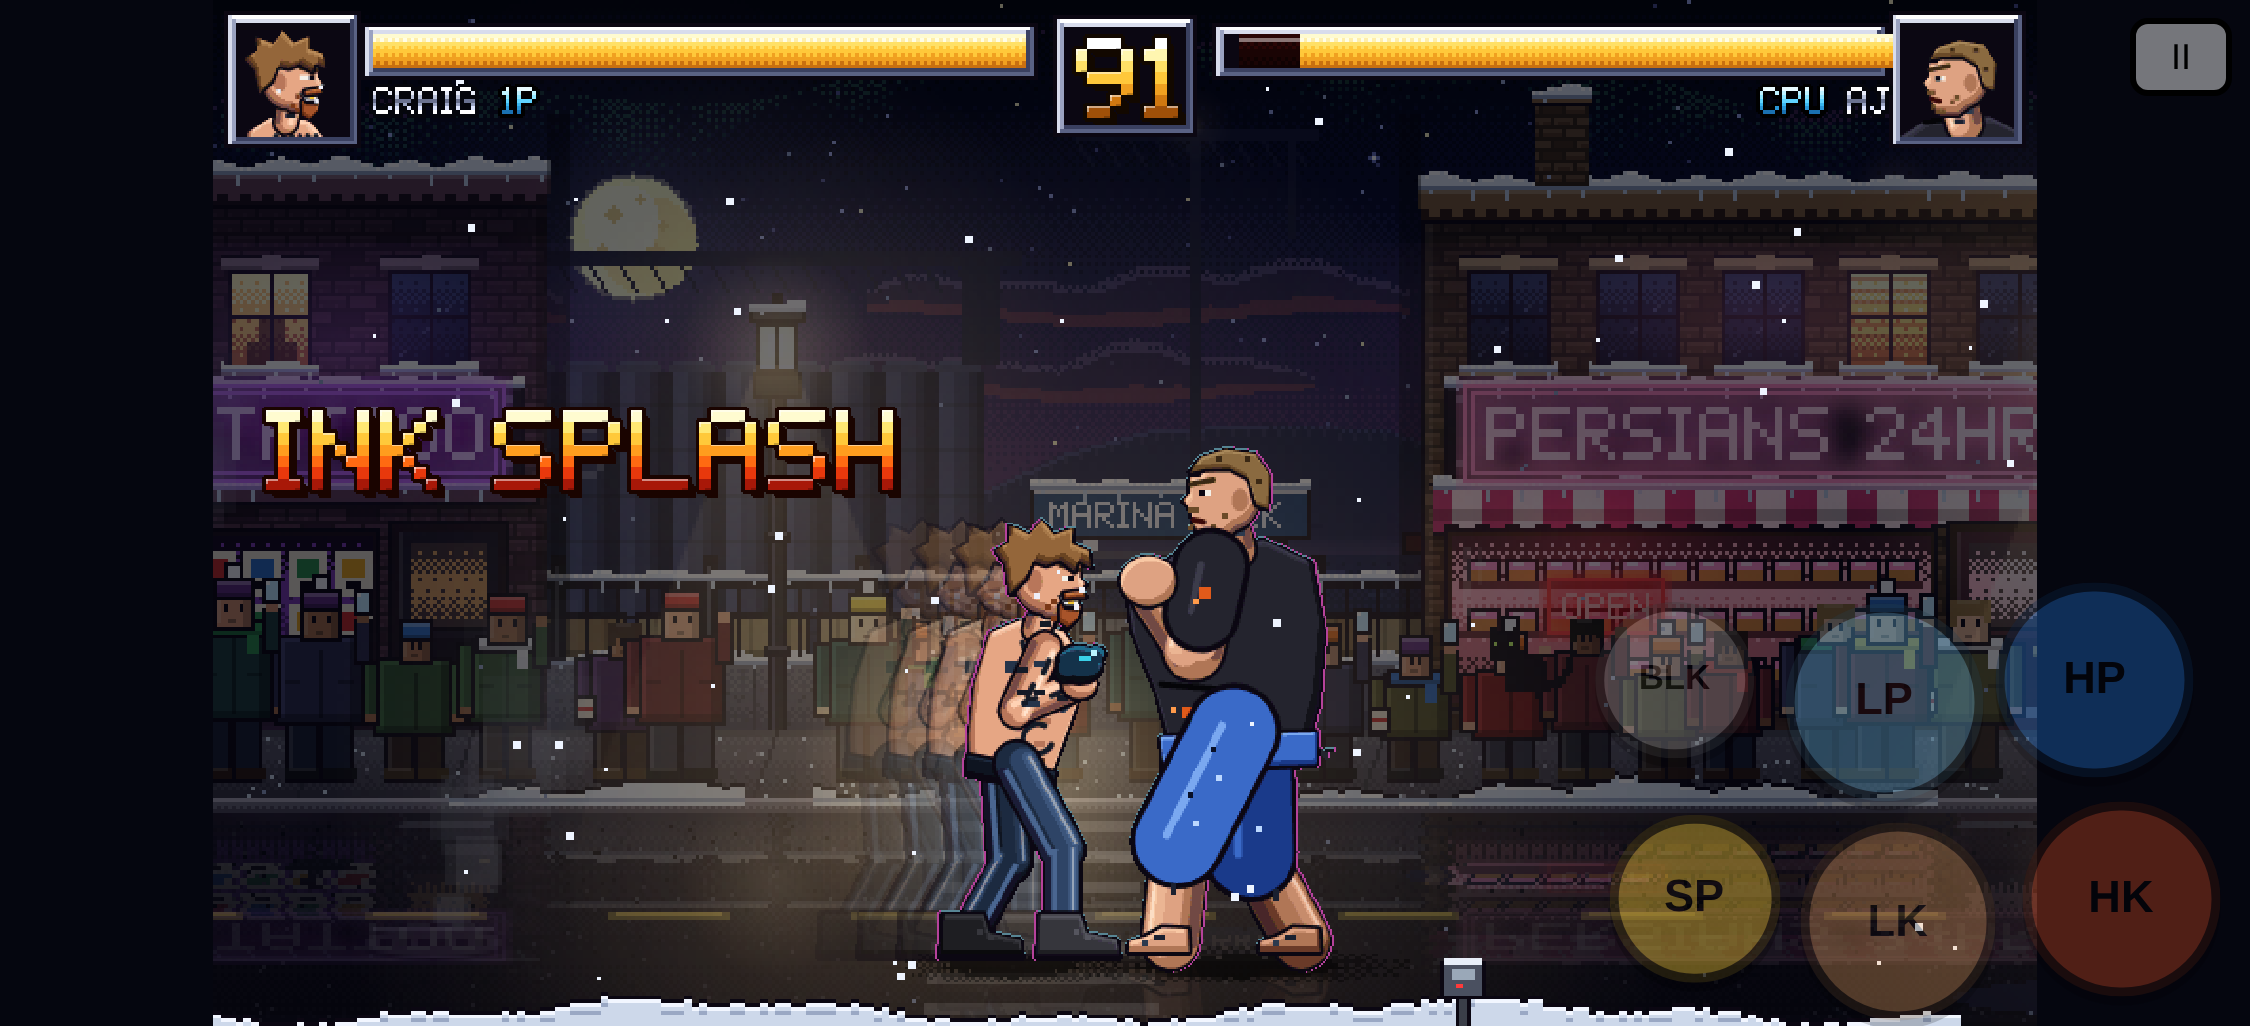
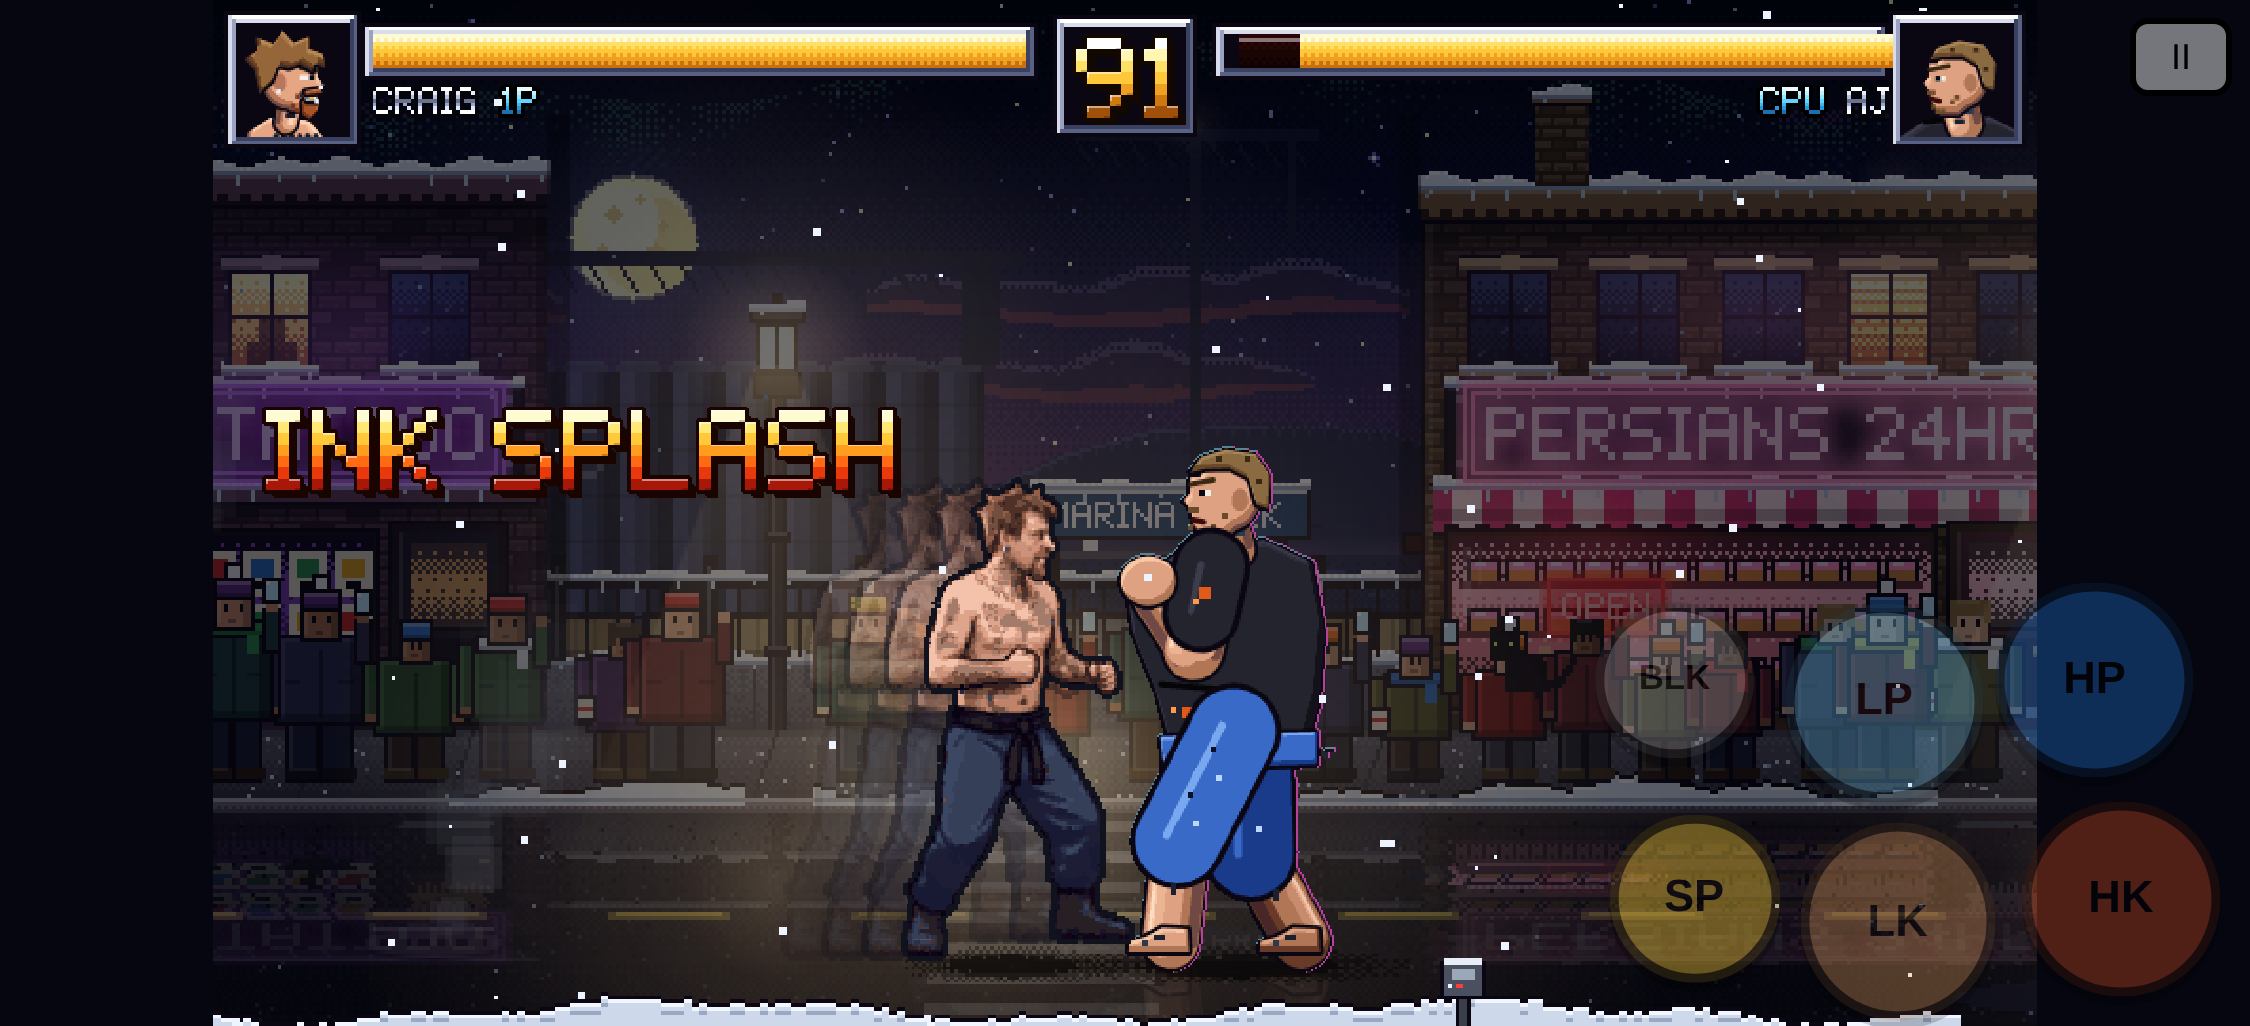
CRAIG: AI sprite sheet (art/craig.png) in the live game: ~10% bigger, 2px outline, 20 colours, no baked ink splash; derived crouch, jump tuck, crouch punch/sweep, knockdown fall, get-up, walk bob; sprite-shaped hit flash; preload + fallback to code-drawn art if the PNG fails; tests for both

Changed region(s): [[0.3422, 0.4678, 0.4978, 0.9357]]

diff --git a/index.html b/index.html
@@ -183,7 +183,18 @@ const CHARS = {
     stats: { speed: 3, power: 3, health: 3, reach: 3 },
     hurt: { st: [-13, 0, 26, 72], cr: [-14, 0, 28, 46], air: [-13, 8, 26, 58] },
     colors: { skin: '#eaa880', top: '#1a2030', top2: '#0b0712', pants: '#2e4466', hair: '#94663a', band: '#b0b0c0', glove: '#eaa880', shoe: '#1e1e22' },
-    render: 'pixel', sprite: null,
+    // AI-generated sprite sheet (art/craig.png, built by spritetest/process_live.py); falls back to the code-drawn art if it fails to load
+    render: 'sprite', sprite: { src: 'art/craig.png?v=ae995220', fw: 360, fh: 256, ox: 172, oy: 236, scale: 0.5, anims: {
+      idle: { row: 0, n: 4, fps: 5 }, walk: { row: 1, n: 4, by: 'walk', div: 6 },
+      punch: { row: 2, n: 3, ph: ['s', 'a', 'r'] }, lp: { row: 2, n: 3, ph: ['s', 'a', 'r'] }, hp: { row: 2, n: 3, ph: ['s', 'a', 'r'] },
+      kick: { row: 3, n: 3, ph: ['s', 'a', 'r'] }, lk: { row: 3, n: 3, ph: ['s', 'a', 'r'] }, hk: { row: 3, n: 3, ph: ['s', 'a', 'r'] },
+      clp: { row: 17, n: 3, ph: ['s', 'a', 'r'] }, chp: { row: 17, n: 3, ph: ['s', 'a', 'r'] }, upper: { row: 17, n: 3, ph: ['s', 'a', 'r'] },
+      clk: { row: 18, n: 3, ph: ['s', 'a', 'r'] }, chk: { row: 18, n: 3, ph: ['s', 'a', 'r'] }, sweep: { row: 18, n: 3, ph: ['s', 'a', 'r'] },
+      jump: { row: 10, n: 3, by: 'vy' }, jp: { row: 11, n: 2, ph: ['s', 'a'] }, jpunch: { row: 11, n: 2, ph: ['s', 'a'] }, jk: { row: 12, n: 2, ph: ['s', 'a'] }, jkick: { row: 12, n: 2, ph: ['s', 'a'] },
+      sp: { row: 5, n: 3, ph: ['s', 'a', 'r'] }, toss: { row: 5, n: 3, ph: ['s', 'a', 'r'] },
+      hit: { row: 4, n: 2 }, stagger: { row: 4, n: 2 }, hitlo: { row: 15, n: 2 }, chit: { row: 8, n: 1 }, kd: { row: 13, n: 3, by: 't', t: [4, 10] },
+      lie: { row: 7, n: 1 }, ko: { row: 7, n: 1 }, rise: { row: 14, n: 3, by: 't', t: [5, 10] }, land: { row: 16, n: 1 },
+      crouch: { row: 8, n: 2, fps: 3 }, block: { row: 9, n: 1 }, cblock: { row: 8, n: 1 }, win: { row: 6, n: 1 }, lose: { row: 15, n: 1 } } },
     moves: {
       lp:  { s: 3, a: 2, r: 7,  dmg: 32, hs: 13, bs: 9,  box: [12, 54, 25, 9],  lvl: 'mid', push: 2.6, anim: 'punch' },
       hp:  { s: 7, a: 3, r: 15, dmg: 80, hs: 19, bs: 13, box: [12, 52, 34, 11], lvl: 'mid', push: 4.6, anim: 'punch', heavy: 1 },
@@ -1825,6 +1836,7 @@ function warmStealSheets() {   // called during the VS splash so the swap never 
   }
 }
 function buildFighterArt() {
+  preloadSprites();
   for (const ch of CHAR_IDS) {
     SHEETS[ch] = buildSheet(ch);
     PORTRAITS[ch] = { n: makePortrait(ch, 30 * RES, 1.25 * RES, 'n'), h: makePortrait(ch, 30 * RES, 1.25 * RES, 'h'), big: makePortrait(ch, 96 * RES, 3.6 * RES, 'n'), win: makePortrait(ch, 96 * RES, 3.6 * RES, 's') };
@@ -1892,12 +1904,25 @@ function drawFromSheet(g, f, S, sx, sy, tick, mirrorY, rim) {
               (falls back to 'pixel' until the image has loaded) */
 const RENDERERS = {
   pixel(g, f, C, sx, sy, tick, my, rim) { drawFromSheet(g, f, sheetFor(f), sx, sy, tick, my, rim); },
-  sprite(g, f, C, sx, sy, tick, my) {
+  sprite(g, f, C, sx, sy, tick, my, rim) {
     const S = C.sprite;
-    if (!S || !S.img) { if (S && !S.loading) { S.loading = 1; const im = new Image(); im.onload = () => { S.img = im; }; im.src = S.src; } return RENDERERS.pixel(g, f, C, sx, sy, tick, my); }
+    // code-drawn art while the PNG loads, if it failed to load, or while a stolen-item look is being worn
+    if (!S || !S.img || stealLookOn(f)) { if (S && !S.loading) loadSprite(S); return RENDERERS.pixel(g, f, C, sx, sy, tick, my, rim); }
     drawFromSheet(g, f, S, sx, sy, tick, my);
   }
 };
+function loadSprite(S) {
+  S.loading = 1; const im = new Image();
+  im.onload = () => { if (im.naturalWidth >= S.fw && im.naturalHeight >= S.fh) S.img = im; else S.failed = 1; };
+  im.onerror = () => { S.failed = 1; };   // stays on the code-drawn art for this session
+  im.src = S.src;
+}
+function stealLookOn(f) {
+  const st = G && G.steal; if (!st || !(st.t < st.T)) return false;
+  const k = stealKeys(st), key = f.i === st.i ? k.thief : f.i === st.v ? k.victim : null, L = key && STEAL_LOOK[f.ch + ':' + key];
+  return !!(L && Object.keys(L).length);
+}
+function preloadSprites() { for (const id of CHAR_IDS) { const S = CHARS[id].sprite; if (CHARS[id].render === 'sprite' && S && !S.loading) loadSprite(S); } }
 RENDERERS.shapes = RENDERERS.pixel;
 </script>
 <script>
@@ -2648,9 +2673,11 @@ function drawFighter(g, f, tick, camX) {
   rend(g, f, C, sx, sy, tick, false, QUAL.lv > 0 ? 0.7 : 0);
   g.globalAlpha = 1;
   // white hit-flash while the hit-stop holds
-  if (G && G.hitstop > 0 && (f.st === 'hit' || f.st === 'kd') && (G.hitstop & 2) && S && S.lazy) {
-    const A = animOf(f, S), [Rw, i] = readyRow(S, A, frameOf(f, A, tick)), fg = FLASH.g; fg.clearRect(0, 0, FLASH.width, FLASH.height);
-    fg.globalCompositeOperation = 'source-over'; fg.drawImage(Rw.img, i * Rw.fw, 0, Rw.fw, Rw.fh, 0, 0, Rw.fw, Rw.fh);
+  const SP = C.render === 'sprite' && C.sprite && C.sprite.img && !stealLookOn(f) ? C.sprite : null;   // PNG-sheet fighter: flash its own frame
+  if (G && G.hitstop > 0 && (f.st === 'hit' || f.st === 'kd') && (G.hitstop & 2) && (SP || (S && S.lazy))) {
+    let Rw, i; if (SP) { const A = animOf(f, SP); i = frameOf(f, A, tick); Rw = { img: SP.img, fw: SP.fw, fh: SP.fh, ox: SP.ox, oy: SP.oy, sy: A.row * SP.fh }; } else { const A = animOf(f, S); [Rw, i] = readyRow(S, A, frameOf(f, A, tick)); }
+    const fg = FLASH.g; fg.clearRect(0, 0, FLASH.width, FLASH.height);
+    fg.globalCompositeOperation = 'source-over'; fg.drawImage(Rw.img, i * Rw.fw, Rw.sy || 0, Rw.fw, Rw.fh, 0, 0, Rw.fw, Rw.fh);
     fg.globalCompositeOperation = 'source-in'; fg.fillStyle = '#ffffff'; fg.fillRect(0, 0, Rw.fw, Rw.fh); fg.globalCompositeOperation = 'source-over';
     const sq = squashOf(f) || [1, 1]; g.save(); g.globalAlpha = 0.75; g.translate(sx, sy); g.scale(f.face * sq[0] / SD, sq[1] / SD); g.drawImage(FLASH, 0, 0, Rw.fw, Rw.fh, -Rw.ox, -Rw.oy, Rw.fw, Rw.fh); g.restore();
   }
@@ -2989,7 +3016,7 @@ addEventListener('resize', fit); fit();
 paintLogo(0);
 /* ---- stale-cache guard: GitHub Pages lets browsers keep the page ~10 min. If the live copy has a
    newer build id than the one running, reload once onto it. ---- */
-const BUILD_ID = 'e969870e';
+const BUILD_ID = 'ae3df8dc';
 if ($('build')) $('build').textContent = 'build ' + BUILD_ID;
 (function freshCheck() {
   if (location.protocol === 'file:' || QS.has('nofresh') || !window.fetch) return;

diff --git a/test/test.js b/test/test.js
@@ -26,6 +26,7 @@ const BASE = 'http://localhost:' + (process.env.PORT || 8090);
   ok('title visible', await page.isVisible('#s-title'));
   ok('pixel logo painted', await page.$eval('#logo', c => { const d = c.getContext('2d').getImageData(0, 0, c.width, c.height).data; let n = 0; for (let i = 3; i < d.length; i += 4) if (d[i]) n++; return n > 5000; }));
   ok('fighter art + stage built (' + await page.evaluate(() => BUILD_MS) + ' ms)', await page.evaluate(() => CHAR_IDS.every(c => SHEETS[c] && PORTRAITS[c].big) && !!(STAGES.bay && STAGES.bay.near && STAGES.alley && STAGES.alley.near) && !!SPK.K));
+  ok('CRAIG AI sprite sheet loaded (' + await page.evaluate(() => CHARS.craig.sprite.img && CHARS.craig.sprite.img.naturalWidth + 'x' + CHARS.craig.sprite.img.naturalHeight) + ')', await page.evaluate(() => CHARS.craig.render === 'sprite' && !!CHARS.craig.sprite.img && !CHARS.craig.sprite.failed));
   await page.tap('#btn-crt'); await W(page, 100); ok('CRT toggle', (await page.textContent('#btn-crt')).includes('ON'));
   await page.screenshot({ path: '../shot-title-crt.png' });
   await page.tap('#btn-crt'); await W(page, 100);
@@ -359,6 +360,29 @@ const BASE = 'http://localhost:' + (process.env.PORT || 8090);
   // RANDOM resolves to a real stage
   for (let i = 0; i < 2; i++) { await solo('craig', '/?q=2&cpu=aj', 'random'); s = await S(page); ok('RANDOM stage -> ' + s.stage, ['bay', 'alley'].includes(s.stage)); }
   await page.tap('#b-pause'); await W(page, 150); await page.tap('#btn-quit');
+
+  // CRAIG's PNG sheet is what's drawn in a fight; if the PNG can't load he falls back to the code-drawn art
+  await solo('craig', '/?q=2&cpu=bino');
+  await page.evaluate(() => { window._spr = { s: 0, p: 0 }; const o = drawFromSheet; window.drawFromSheet = function (g, f, S) { if (f.ch === 'craig') S === CHARS.craig.sprite ? _spr.s++ : _spr.p++; return o.apply(this, arguments); }; });
+  await page.evaluate(() => { FIGHT.place(0, 360); FIGHT.place(1, 400); }); await W(page, 300);
+  for (const m of ['hp', 'hk', 'sp']) { await page.evaluate(n => FIGHT.press(0, n), m); await W(page, 700); }
+  let spr = await page.evaluate(() => _spr); ok('CRAIG drawn from the sprite sheet in a fight (' + spr.s + ' sprite / ' + spr.p + ' code-drawn draws)', spr.s > 30 && spr.p === 0);
+  s = await S(page); ok('CRAIG still hits with the sprite art (BINO hp ' + s.f[1].hp + ')', s.f[1].hp < 1000);
+  await page.tap('#b-pause'); await W(page, 150); await page.tap('#btn-quit');
+  {
+    const ctx = await browser.newContext({ ...devices['iPhone 13 landscape'] }), fp = await ctx.newPage(), perr = [];
+    fp.on('pageerror', e => perr.push(e.message));
+    await ctx.route('**/art/craig.png*', r => r.abort());
+    await fp.goto(BASE + '/?q=2&cpu=bino'); await W(fp, 1200);
+    await fp.tap('#btn-solo'); await W(fp, 150); await fp.tap('#pick-craig'); await fp.tap('#btn-fight'); await W(fp, 100); await fp.tap('#btn-stage-go');
+    await until(fp, x => x.phase === 'vs', 2000); await fp.evaluate(() => FIGHT.skipVS()); await until(fp, x => x.phase === 'fight', 6000);
+    await fp.evaluate(() => { window._spr = 0; const o = drawFromSheet; window.drawFromSheet = function (g, f, S) { if (f.ch === 'craig' && S === SHEETS.craig) _spr++; return o.apply(this, arguments); }; });
+    await W(fp, 600);
+    const fb = await fp.evaluate(() => ({ failed: !!CHARS.craig.sprite.failed, img: !!CHARS.craig.sprite.img, n: _spr }));
+    ok('sprite PNG blocked -> CRAIG falls back to the code-drawn art (' + fb.n + ' draws, no page errors)', fb.failed && !fb.img && fb.n > 10 && perr.length === 0);
+    await fp.screenshot({ path: '../shot-craig-fallback.png' });
+    await ctx.close();
+  }
 
   // ---------------- ONLINE (two phones through the server) ----------------
   const A = await mkPage(), B = await mkPage();

diff --git a/src/2.js b/src/2.js
@@ -28,7 +28,18 @@ const CHARS = {
     stats: { speed: 3, power: 3, health: 3, reach: 3 },
     hurt: { st: [-13, 0, 26, 72], cr: [-14, 0, 28, 46], air: [-13, 8, 26, 58] },
     colors: { skin: '#eaa880', top: '#1a2030', top2: '#0b0712', pants: '#2e4466', hair: '#94663a', band: '#b0b0c0', glove: '#eaa880', shoe: '#1e1e22' },
-    render: 'pixel', sprite: null,
+    // AI-generated sprite sheet (art/craig.png, built by spritetest/process_live.py); falls back to the code-drawn art if it fails to load
+    render: 'sprite', sprite: { src: 'art/craig.png?v=ae995220', fw: 360, fh: 256, ox: 172, oy: 236, scale: 0.5, anims: {
+      idle: { row: 0, n: 4, fps: 5 }, walk: { row: 1, n: 4, by: 'walk', div: 6 },
+      punch: { row: 2, n: 3, ph: ['s', 'a', 'r'] }, lp: { row: 2, n: 3, ph: ['s', 'a', 'r'] }, hp: { row: 2, n: 3, ph: ['s', 'a', 'r'] },
+      kick: { row: 3, n: 3, ph: ['s', 'a', 'r'] }, lk: { row: 3, n: 3, ph: ['s', 'a', 'r'] }, hk: { row: 3, n: 3, ph: ['s', 'a', 'r'] },
+      clp: { row: 17, n: 3, ph: ['s', 'a', 'r'] }, chp: { row: 17, n: 3, ph: ['s', 'a', 'r'] }, upper: { row: 17, n: 3, ph: ['s', 'a', 'r'] },
+      clk: { row: 18, n: 3, ph: ['s', 'a', 'r'] }, chk: { row: 18, n: 3, ph: ['s', 'a', 'r'] }, sweep: { row: 18, n: 3, ph: ['s', 'a', 'r'] },
+      jump: { row: 10, n: 3, by: 'vy' }, jp: { row: 11, n: 2, ph: ['s', 'a'] }, jpunch: { row: 11, n: 2, ph: ['s', 'a'] }, jk: { row: 12, n: 2, ph: ['s', 'a'] }, jkick: { row: 12, n: 2, ph: ['s', 'a'] },
+      sp: { row: 5, n: 3, ph: ['s', 'a', 'r'] }, toss: { row: 5, n: 3, ph: ['s', 'a', 'r'] },
+      hit: { row: 4, n: 2 }, stagger: { row: 4, n: 2 }, hitlo: { row: 15, n: 2 }, chit: { row: 8, n: 1 }, kd: { row: 13, n: 3, by: 't', t: [4, 10] },
+      lie: { row: 7, n: 1 }, ko: { row: 7, n: 1 }, rise: { row: 14, n: 3, by: 't', t: [5, 10] }, land: { row: 16, n: 1 },
+      crouch: { row: 8, n: 2, fps: 3 }, block: { row: 9, n: 1 }, cblock: { row: 8, n: 1 }, win: { row: 6, n: 1 }, lose: { row: 15, n: 1 } } },
     moves: {
       lp:  { s: 3, a: 2, r: 7,  dmg: 32, hs: 13, bs: 9,  box: [12, 54, 25, 9],  lvl: 'mid', push: 2.6, anim: 'punch' },
       hp:  { s: 7, a: 3, r: 15, dmg: 80, hs: 19, bs: 13, box: [12, 52, 34, 11], lvl: 'mid', push: 4.6, anim: 'punch', heavy: 1 },

diff --git a/src/3b.js b/src/3b.js
@@ -867,6 +867,7 @@ function warmStealSheets() {   // called during the VS splash so the swap never 
   }
 }
 function buildFighterArt() {
+  preloadSprites();
   for (const ch of CHAR_IDS) {
     SHEETS[ch] = buildSheet(ch);
     PORTRAITS[ch] = { n: makePortrait(ch, 30 * RES, 1.25 * RES, 'n'), h: makePortrait(ch, 30 * RES, 1.25 * RES, 'h'), big: makePortrait(ch, 96 * RES, 3.6 * RES, 'n'), win: makePortrait(ch, 96 * RES, 3.6 * RES, 's') };
@@ -934,11 +935,24 @@ function drawFromSheet(g, f, S, sx, sy, tick, mirrorY, rim) {
               (falls back to 'pixel' until the image has loaded) */
 const RENDERERS = {
   pixel(g, f, C, sx, sy, tick, my, rim) { drawFromSheet(g, f, sheetFor(f), sx, sy, tick, my, rim); },
-  sprite(g, f, C, sx, sy, tick, my) {
+  sprite(g, f, C, sx, sy, tick, my, rim) {
     const S = C.sprite;
-    if (!S || !S.img) { if (S && !S.loading) { S.loading = 1; const im = new Image(); im.onload = () => { S.img = im; }; im.src = S.src; } return RENDERERS.pixel(g, f, C, sx, sy, tick, my); }
+    // code-drawn art while the PNG loads, if it failed to load, or while a stolen-item look is being worn
+    if (!S || !S.img || stealLookOn(f)) { if (S && !S.loading) loadSprite(S); return RENDERERS.pixel(g, f, C, sx, sy, tick, my, rim); }
     drawFromSheet(g, f, S, sx, sy, tick, my);
   }
 };
+function loadSprite(S) {
+  S.loading = 1; const im = new Image();
+  im.onload = () => { if (im.naturalWidth >= S.fw && im.naturalHeight >= S.fh) S.img = im; else S.failed = 1; };
+  im.onerror = () => { S.failed = 1; };   // stays on the code-drawn art for this session
+  im.src = S.src;
+}
+function stealLookOn(f) {
+  const st = G && G.steal; if (!st || !(st.t < st.T)) return false;
+  const k = stealKeys(st), key = f.i === st.i ? k.thief : f.i === st.v ? k.victim : null, L = key && STEAL_LOOK[f.ch + ':' + key];
+  return !!(L && Object.keys(L).length);
+}
+function preloadSprites() { for (const id of CHAR_IDS) { const S = CHARS[id].sprite; if (CHARS[id].render === 'sprite' && S && !S.loading) loadSprite(S); } }
 RENDERERS.shapes = RENDERERS.pixel;
 </script>

diff --git a/src/3d.js b/src/3d.js
@@ -193,9 +193,11 @@ function drawFighter(g, f, tick, camX) {
   rend(g, f, C, sx, sy, tick, false, QUAL.lv > 0 ? 0.7 : 0);
   g.globalAlpha = 1;
   // white hit-flash while the hit-stop holds
-  if (G && G.hitstop > 0 && (f.st === 'hit' || f.st === 'kd') && (G.hitstop & 2) && S && S.lazy) {
-    const A = animOf(f, S), [Rw, i] = readyRow(S, A, frameOf(f, A, tick)), fg = FLASH.g; fg.clearRect(0, 0, FLASH.width, FLASH.height);
-    fg.globalCompositeOperation = 'source-over'; fg.drawImage(Rw.img, i * Rw.fw, 0, Rw.fw, Rw.fh, 0, 0, Rw.fw, Rw.fh);
+  const SP = C.render === 'sprite' && C.sprite && C.sprite.img && !stealLookOn(f) ? C.sprite : null;   // PNG-sheet fighter: flash its own frame
+  if (G && G.hitstop > 0 && (f.st === 'hit' || f.st === 'kd') && (G.hitstop & 2) && (SP || (S && S.lazy))) {
+    let Rw, i; if (SP) { const A = animOf(f, SP); i = frameOf(f, A, tick); Rw = { img: SP.img, fw: SP.fw, fh: SP.fh, ox: SP.ox, oy: SP.oy, sy: A.row * SP.fh }; } else { const A = animOf(f, S); [Rw, i] = readyRow(S, A, frameOf(f, A, tick)); }
+    const fg = FLASH.g; fg.clearRect(0, 0, FLASH.width, FLASH.height);
+    fg.globalCompositeOperation = 'source-over'; fg.drawImage(Rw.img, i * Rw.fw, Rw.sy || 0, Rw.fw, Rw.fh, 0, 0, Rw.fw, Rw.fh);
     fg.globalCompositeOperation = 'source-in'; fg.fillStyle = '#ffffff'; fg.fillRect(0, 0, Rw.fw, Rw.fh); fg.globalCompositeOperation = 'source-over';
     const sq = squashOf(f) || [1, 1]; g.save(); g.globalAlpha = 0.75; g.translate(sx, sy); g.scale(f.face * sq[0] / SD, sq[1] / SD); g.drawImage(FLASH, 0, 0, Rw.fw, Rw.fh, -Rw.ox, -Rw.oy, Rw.fw, Rw.fh); g.restore();
   }

diff --git a/README.md b/README.md
@@ -109,7 +109,8 @@ sprite: { src: 'art/sara.png', fw: 180, fh: 128, ox: 86, oy: 116, scale: 1,
 - **Facing:** draw facing **right**; the game mirrors it.
 - **Phases:** `ph` maps each frame to startup (`s`), active (`a`) or recovery (`r`) so the art stays in sync with the hitboxes.
 - **Fallbacks:** crouching moves fall back to the standing anim, and any missing anim uses `idle`.
-- **Loading:** the procedural art is drawn until the image finishes loading.
+- **Loading:** the procedural art is drawn until the image finishes loading (preloaded at boot). If the PNG fails to load, the fighter stays on the procedural art for the session; it also switches back to it while a stolen-item look is worn.
+- **CRAIG** uses one: `art/craig.png` (AI-generated stylized frames, cleaned up into a 20-colour sheet). Hitboxes, stats and netcode are unchanged.
 
 Hitboxes are defined per move and are independent of the art. Use stylized likenesses only, not photos. After editing `src/`, run `node build.js` to rebuild `index.html`.
 
